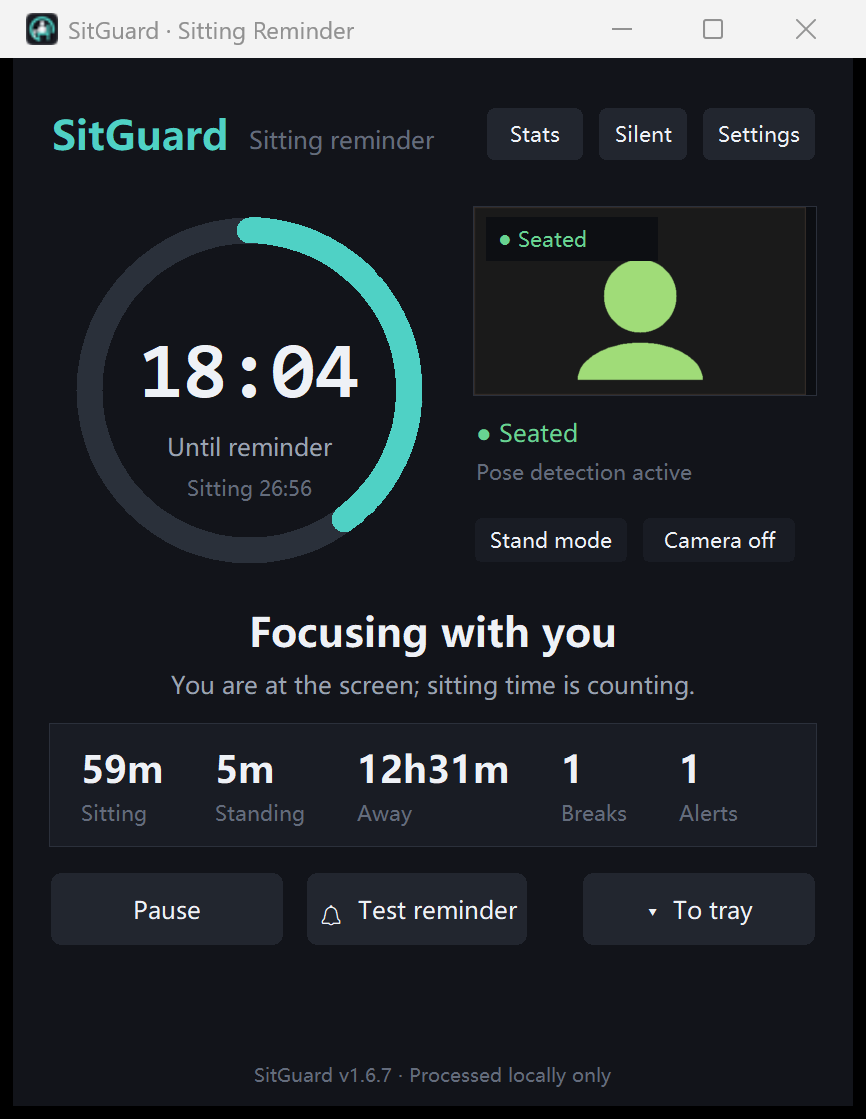
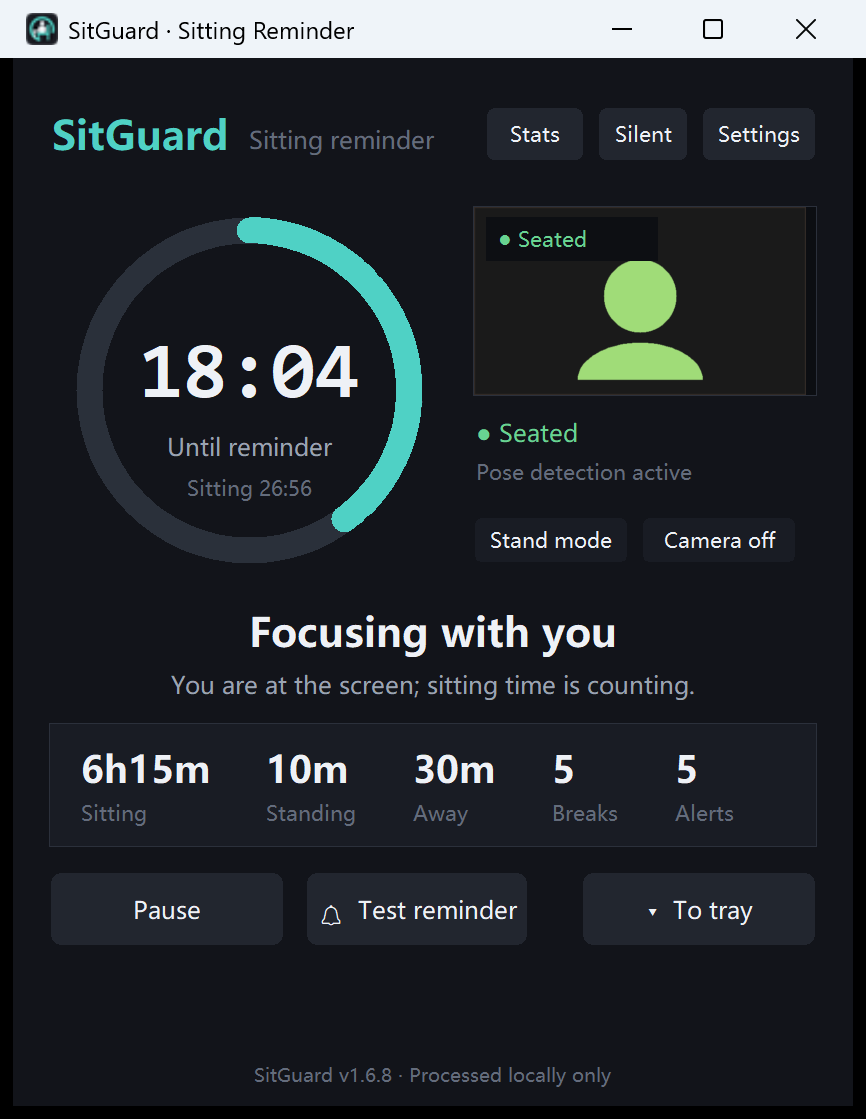
feat: count away time toward the stand goal
The rolling 90-minute activity goal now counts standing plus away time; stats still show sitting, standing and away separately. The reminder only fires when sitting still dominates and total movement is under 10 minutes.

diff --git a/sitguard/i18n.py b/sitguard/i18n.py
@@ -81,8 +81,8 @@ _T = {
     "stats_no_record": ("该日期没有记录", "No record for this date"),
     "stats_bad_date": ("日期格式：YYYY-MM-DD", "Date format: YYYY-MM-DD"),
     "stats_future": ("不能查看未来日期", "Cannot view a future date"),
-    "footer": ("SitGuard v1.6.7 · 画面仅在本机处理",
-               "SitGuard v1.6.7 · Processed locally only"),
+    "footer": ("SitGuard v1.6.8 · 画面仅在本机处理",
+               "SitGuard v1.6.8 · Processed locally only"),
     "stand_mode": ("站立模式", "Stand mode"),
     "sit_down": ("坐下", "Sit down"),
     "stand": ("站立", "Stand"),
@@ -204,10 +204,10 @@ _T = {
                     "Show full-screen break reminder (off = sound only)"),
     "chk_auto_silent": ("电池供电时自动静默",
                        "Silent mode on battery power"),
-    "chk_stand_goal": ("每 90 分钟至少站 10 分钟",
-                       "Stand at least 10 min every 90 min"),
-    "toast_stand_goal": ("过去 {w} 分钟只站了 {s}，起来活动一下吧",
-                         "Only {s} standing in the last {w} min — time to move"),
+    "chk_stand_goal": ("每 90 分钟至少站/走 10 分钟",
+                       "Stand or move at least 10 min every 90 min"),
+    "toast_stand_goal": ("过去 {w} 分钟只活动了 {s}，起来走走或站一会儿",
+                         "Only {s} standing/moving in the last {w} min — take a walk"),
     "silent": ("静音", "Silent"),
     "silent_active": ("静默", "Muted"),
     "toast_silent_on": ("已进入静默/省电模式：只保留右下角提示",

diff --git a/sitguard/app.py b/sitguard/app.py
@@ -665,11 +665,13 @@ class App:
         end = time.time()
         start = end - window
         standing = self.activity.seconds_between("standing", start, end)
+        away = self.activity.seconds_between("away", start, end)
+        moving = standing + (away if cfg.stand_goal_include_away else 0.0)
         sitting = self.activity.seconds_between("sitting", start, end)
         if sitting < min(1800.0, window * 0.3):
             return
         goal = cfg.stand_goal_minutes * 60.0
-        if standing >= goal:
+        if moving >= goal:
             self._stand_goal_last = 0.0
             return
         repeat = cfg.stand_goal_repeat_minutes * 60.0
@@ -677,11 +679,11 @@ class App:
             return
         self._stand_goal_last = now
         self.notify(i18n.t("toast_stand_goal", w=cfg.stand_goal_window_minutes,
-                           s=i18n.fmt_duration(standing)), ui.WARN, ms=4500)
+                           s=i18n.fmt_duration(moving)), ui.WARN, ms=4500)
         if cfg.sound and not self.is_silent():
             sound.reminder_sound(cfg.sound_file, cfg.sound_name)
-        log.info("站立不足提醒：%.0f 秒 / %d 分钟窗口", standing,
-                 cfg.stand_goal_window_minutes)
+        log.info("活动不足提醒：站立 %.0f 秒 + 离开 %.0f 秒 / %d 分钟窗口",
+                 standing, away, cfg.stand_goal_window_minutes)
 
     def _track_posture(self, now: float) -> None:
         snap = self.engine.snapshot(self._camera_state, self._camera_message,

diff --git a/sitguard/config.py b/sitguard/config.py
@@ -78,6 +78,7 @@ class Config:
     stand_goal_window_minutes: int = 90
     stand_goal_minutes: int = 10
     stand_goal_repeat_minutes: int = 30
+    stand_goal_include_away: bool = True
     overlay_enabled: bool = True    # 是否显示全屏提醒；关闭则只响铃
     sound_repeat: int = 3            # 提醒音重复次数
     snooze_minutes: int = 5          # 临时推迟
@@ -122,6 +123,7 @@ class Config:
         c.stand_goal_window_minutes = int(clamp(c.stand_goal_window_minutes, 30, 240))
         c.stand_goal_minutes = int(clamp(c.stand_goal_minutes, 5, 60))
         c.stand_goal_repeat_minutes = int(clamp(c.stand_goal_repeat_minutes, 10, 120))
+        c.stand_goal_include_away = bool(c.stand_goal_include_away)
         c.overlay_enabled = bool(c.overlay_enabled)
         c.snooze_minutes = int(clamp(c.snooze_minutes, 1, 120))
         c.auto_snooze_minutes = int(clamp(c.auto_snooze_minutes, 1, 30))

diff --git a/sitguard/__init__.py b/sitguard/__init__.py
@@ -1,5 +1,5 @@
 """SitGuard — 久坐提醒（摄像头在场检测）。"""
 
-__version__ = "1.6.7"
+__version__ = "1.6.8"
 APP_NAME = "SitGuard"
 APP_NAME_CN = "久坐提醒"

diff --git a/README_ZH.md b/README_ZH.md
@@ -68,7 +68,7 @@ English UI:
 | 起身自动完成 | 站立 10 秒，或整个人离开画面 12 秒 → 自动完成休息 |
 | 立即关闭 | 「我站起来了」「关闭本次提醒」点一下立即结束，不再卡住 |
 | 离开/站立重置 | 站立或离开超过 3 分钟，久坐计时从 0 重新开始 |
-| 站立目标 | 任意滚动 90 分钟内站立不足 10 分钟，会轻声提醒一次（设置里可关） |
+| 站立目标 | 任意滚动 90 分钟内站立 + 离开不足 10 分钟才提醒；离座走动也算活动（设置里可关） |
 | 今日统计 | 主界面直接显示今日在座、站立、离开、完成休息、提醒次数 |
 | 托盘常驻 | 关闭窗口不退出；托盘菜单可暂停、立即休息、结束休息、今日统计、开关摄像头 |
 | 活动统计 | 每段记录开始/结束时间；当天明细列出几点坐下、站起、离开，附近 7 天平均；无限保留，可按日期查看 |

diff --git a/README.md b/README.md
@@ -28,9 +28,9 @@ as soon as you stand.
   12 seconds, or click a button (instant).
 - **3-minute rule** — standing for 3 minutes before the reminder restarts the
   sitting timer from zero.
-- **Stand goal** — if you stand for less than 10 minutes across any rolling
-  90-minute window, a gentle toast and sound nudge you to move (can be turned
-  off in Settings).
+- **Stand goal** — if standing **plus time away from the desk** totals less
+  than 10 minutes across any rolling 90-minute window, a gentle toast and
+  sound nudge you to move (can be turned off in Settings).
 - **Sound-only mode** — hide the full-screen reminder; the app still plays
   the alert and re-reminds you every 5 minutes while you keep sitting.
 - **No main-window pop-up** — after you stand, only a small desktop toast
